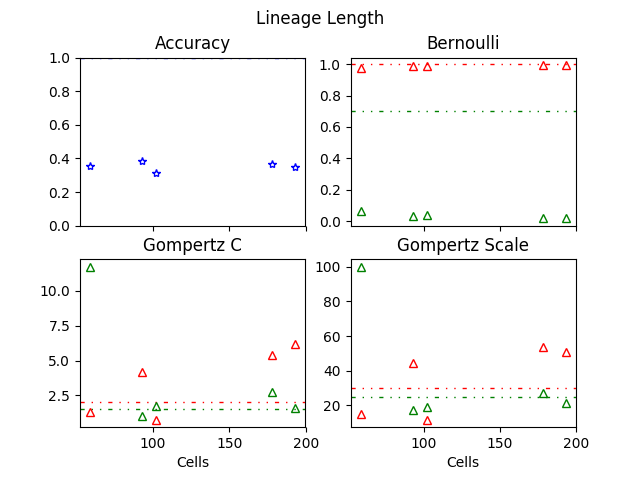
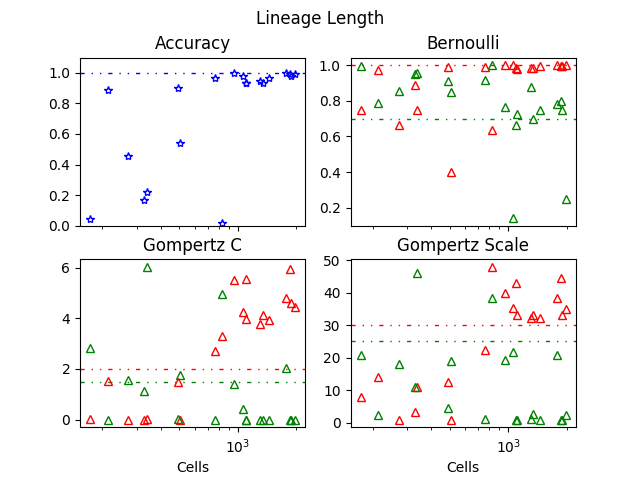
small edits of pop parameters for figures of presentation

diff --git a/Figure1_2Lineage.py b/Figure1_2Lineage.py
@@ -18,10 +18,10 @@ from lineage.CellNode import CellNode
 
 ################ Number of cell in a single lineage
 
-T_MAS = 75
-T_2 = 75
+T_MAS = 85
+T_2 = 85
 times = range(1,2) 
-reps = 5
+reps = 20
 switchT = 25
 
 MASinitCells = [1]
@@ -55,16 +55,8 @@ for experimentTime in times: #a pop with num number of lineages
     scaleGom_2_h2 = []
     
     for rep in range(reps):
-        print('Rep:', rep)
+        print('Rep:', rep)       
         
-        newLineage = gpt(75, MASinitCells, MASlocBern, MAScGom, MASscaleGom, switchT, locBern2, cGom2, scaleGom2)
-        while len(newLineage) == 0:
-            newLineage = gpt(experimentTime, MASinitCells, MASlocBern, MAScGom, MASscaleGom, switchT, locBern2, cGom2, scaleGom2)
-        
-        X = remove_NaNs(newLineage)
-        print(len(newLineage))
-        
-        '''
         MASexperimentTime = T_MAS
         masterLineage = gpt(MASexperimentTime, MASinitCells, MASlocBern, MAScGom, MASscaleGom)
         masterLineage = remove_NaNs(masterLineage)
@@ -95,7 +87,7 @@ for experimentTime in times: #a pop with num number of lineages
         master_cell.left = sublineage2[0]
         sublineage2[0].parent = master_cell
         newLineage = masterLineage + sublineage2
-        '''
+        
         
         X = remove_NaNs(newLineage)
         print(len(newLineage))
@@ -122,7 +114,6 @@ for experimentTime in times: #a pop with num number of lineages
             E = tHMMobj.paramlist[lin]["E"]
             pi = tHMMobj.paramlist[lin]["pi"] 
 
-            '''
             #assign state 1 and state 2
             T_non_diag = np.zeros(numStates)
             for state_j in range(numStates):
@@ -150,33 +141,8 @@ for experimentTime in times: #a pop with num number of lineages
                     else:
                         wrong += 1           
 
-            accuracy = (len(lineage) - wrong)/len(lineage) #must be fixed for more than 1 lineage
-            '''
-            
-            state_1 = np.argmax(pi)
-            state_2 = np.argmin(pi)
-            
-            trues = []
-        
-            
-            wrong = 0
-            for cell in range(len(lineage)):
-                trues.append(lineage[cell].true_state)
-                if lineage[cell].true_state == 0:
-                    if all_states[lin][cell] == state_1:
-                        pass
-                    else:
-                        wrong += 1
-                elif lineage[cell].true_state == 1:
-                    if all_states[lin][cell] == state_2:
-                        pass
-                    else:
-                        wrong += 1           
-            print('viterbi',all_states[lin])
-            print('trues', trues)
-            
-            print('pi', pi)
-            accuracy = (len(lineage) - wrong)/len(lineage) #must be fixed for more than 1 lineage
+            accuracy = (len(lineage) - wrong)/len(lineage) #must be fixed for more than 1 lineage           
+
 
             
             acc_h3.append(accuracy)
@@ -215,7 +181,7 @@ x=cell_h1
 print(max(x))
 fig, axs = plt.subplots(nrows=2, ncols=2, sharex=True)
 ax = axs[0,0]
-ax.set_ylim(0,1)
+ax.set_ylim(0,1.1)
 l1 = ax.errorbar(x, acc_h1, fmt='o', c='b',marker="*",fillstyle='none', label = 'Accuracy')
 ax.axhline(y=1, linestyle = (0, (3, 5, 1, 5, 1, 5)), linewidth=1, color='b',)
 ax.set_title('Accuracy')
@@ -230,6 +196,7 @@ ax.axhline(y=locBern2, linestyle = (0, (3, 5, 1, 5, 1, 5)), linewidth=1, color='
 
 ax = axs[1,0]
 ax.set_xlabel('Cells')
+ax.set_xscale("log", nonposx='clip')
 ax.errorbar(x,cGom_MAS_h1, fmt='o',c='r',marker="^",fillstyle='none', label = 'State 1')
 ax.errorbar(x,cGom_2_h1, fmt='o',c='g',marker="^",fillstyle='none', label = 'State 2')
 ax.axhline(y=MAScGom, linestyle = (0, (3, 5, 1, 5, 1, 5)), linewidth=1, color='r')
@@ -239,6 +206,7 @@ ax.set_title('Gompertz C')
 
 ax = axs[1,1]
 ax.set_xlabel('Cells')
+ax.set_xscale("log", nonposx='clip')
 ax.errorbar(x,scaleGom_MAS_h1, fmt='o',c='r',marker="^",fillstyle='none', label = 'State 1')
 ax.errorbar(x,scaleGom_2_h1, fmt='o',c='g',marker="^",fillstyle='none', label = 'State 2')
 ax.axhline(y=MASscaleGom, linestyle = (0, (3, 5, 1, 5, 1, 5)), linewidth=1, color='r')
@@ -255,3 +223,36 @@ fig.legend((l1, l2, l3), ('Accuracy', 'State 1', 'State 2'), loc='upper right', 
 fig.suptitle('Lineage Length')
 
 plt.savefig('TEST_lineage_length_classification.png')
+
+'''            state_1 = np.argmax(pi)
+            state_2 = np.argmin(pi)
+            
+            trues = []
+        
+            
+            wrong = 0
+            for cell in range(len(lineage)):
+                trues.append(lineage[cell].true_state)
+                if lineage[cell].true_state == 0:
+                    if all_states[lin][cell] == state_1:
+                        pass
+                    else:
+                        wrong += 1
+                elif lineage[cell].true_state == 1:
+                    if all_states[lin][cell] == state_2:
+                        pass
+                    else:
+                        wrong += 1           
+            print('viterbi',all_states[lin])
+            print('trues', trues)
+            
+            print('pi', pi)
+            accuracy = (len(lineage) - wrong)/len(lineage) #must be fixed for more than 1 lineage
+            
+            
+                    newLineage = gpt(75, MASinitCells, MASlocBern, MAScGom, MASscaleGom, switchT, locBern2, cGom2, scaleGom2)
+        while len(newLineage) == 0:
+            newLineage = gpt(experimentTime, MASinitCells, MASlocBern, MAScGom, MASscaleGom, switchT, locBern2, cGom2, scaleGom2)
+        
+        X = remove_NaNs(newLineage)
+        print(len(newLineage))'''

diff --git a/Figure2_2Lineage.py b/Figure2_2Lineage.py
@@ -19,7 +19,7 @@ from lineage.CellNode import CellNode
 ########################## Number of Lineages in a population
 
 lineage_start = 1
-lineage_end = 20
+lineage_end = 5
 lineages = range(lineage_start, lineage_end + 1) 
 reps = 1
 '''
@@ -32,8 +32,8 @@ bern2 = [0.7]
 cG2 = [1.5]
 scaleG2 = [25]
 '''
-T_MAS = 30
-T_2 = 30
+T_MAS = 50
+T_2 = 75
 
 MASinitCells = [1]
 MASlocBern = [0.99999999999]
